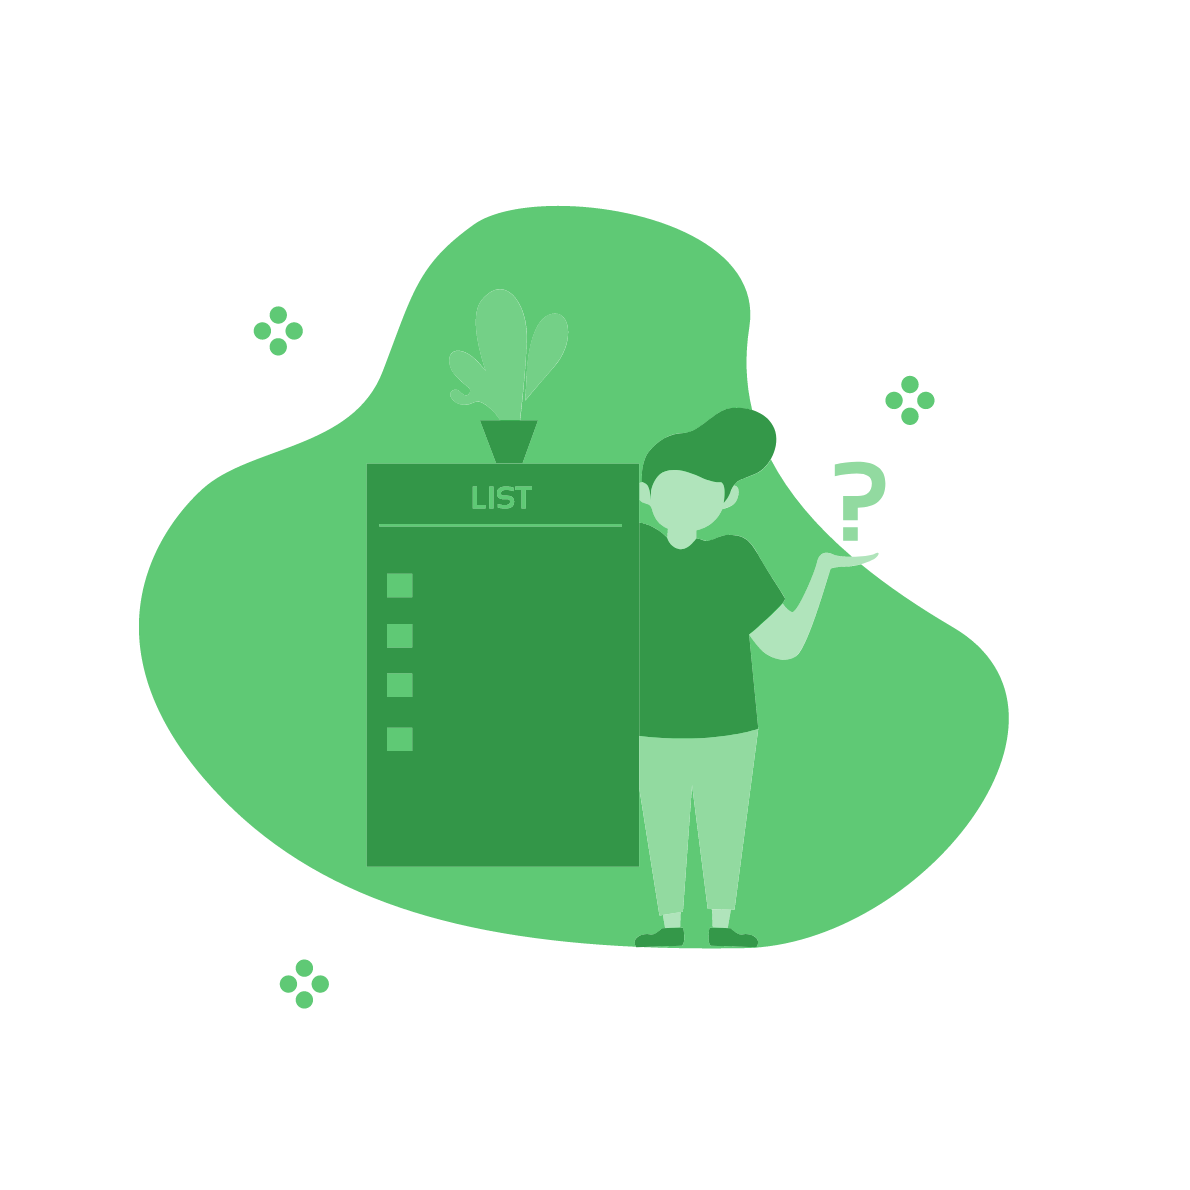
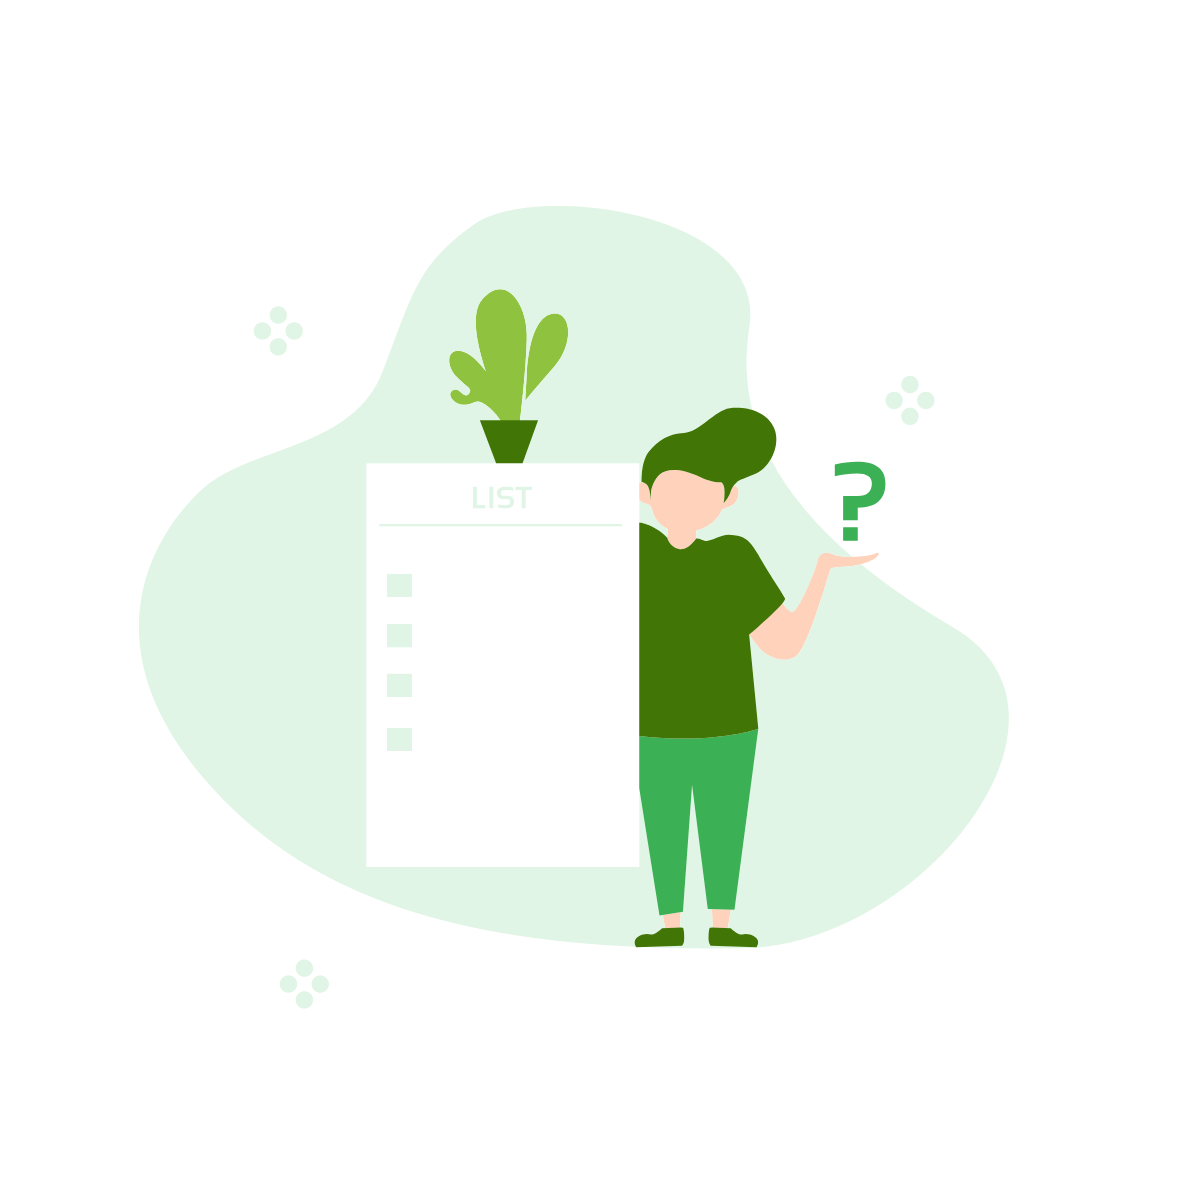
place holder for empty tx list

diff --git a/lib/widgets/wallet/transactions_list.dart b/lib/widgets/wallet/transactions_list.dart
@@ -84,17 +84,32 @@ class _TransactionListState extends State<TransactionList> {
       children: [
         WalletBalanceHeader(widget._connectionState, widget._wallet),
         widget._walletTransactions
-                .where((element) =>
-                    element.timestamp != -1) //don't count "phantom" tx
+                .where(
+                  (element) => element.timestamp != -1,
+                ) //don't count "phantom" tx
                 .isEmpty
-            ? Center(
-                child: Text(
-                AppLocalizations.instance.translate('transactions_none'),
-                style: TextStyle(
-                    fontSize: 16,
-                    fontStyle: FontStyle.italic,
-                    color: Theme.of(context).backgroundColor),
-              ))
+            ? Column(
+                mainAxisAlignment: MainAxisAlignment.center,
+                children: [
+                  SizedBox(
+                    height: MediaQuery.of(context).size.height / 10,
+                  ),
+                  Image.asset(
+                    'assets/img/list-empty.png',
+                    height: MediaQuery.of(context).size.height / 4,
+                  ),
+                  Center(
+                    child: Text(
+                      AppLocalizations.instance.translate('transactions_none'),
+                      style: TextStyle(
+                        fontSize: 16,
+                        fontStyle: FontStyle.italic,
+                        color: Theme.of(context).backgroundColor,
+                      ),
+                    ),
+                  ),
+                ],
+              )
             : GestureDetector(
                 onHorizontalDragEnd: (dragEndDetails) {
                   if (dragEndDetails.primaryVelocity! < 0) {
